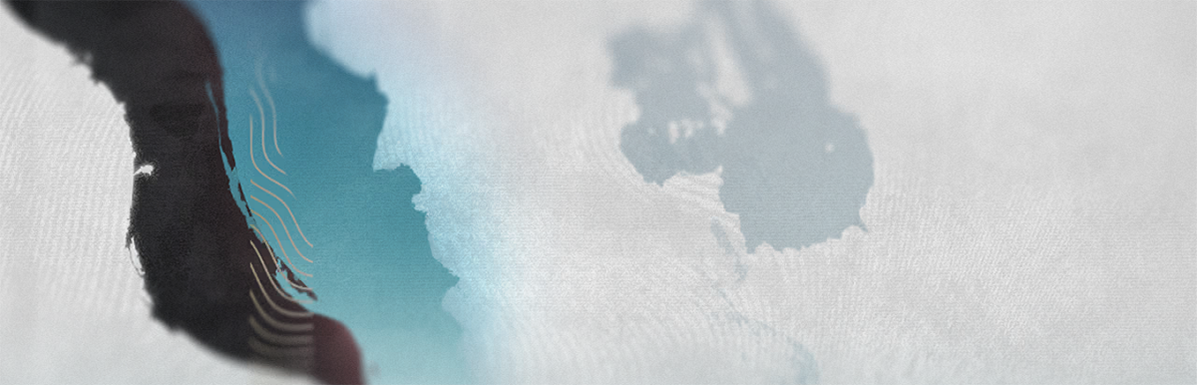
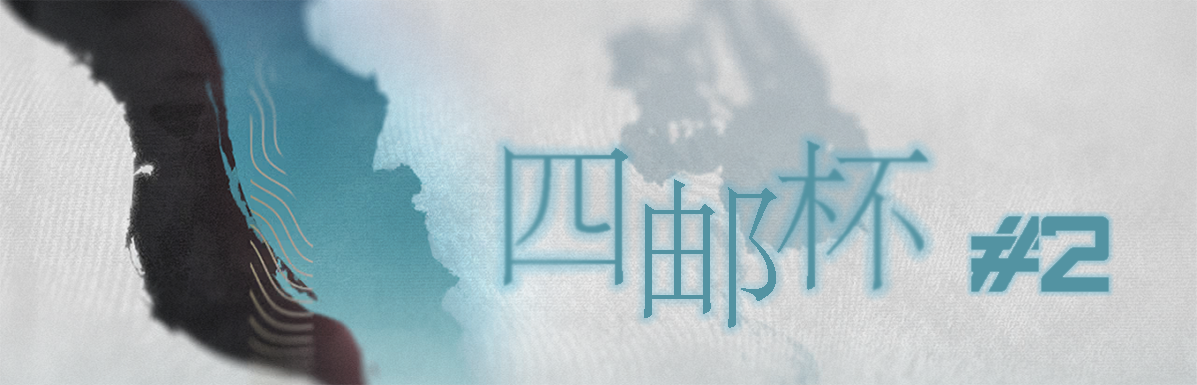
Add files via upload

Changed region(s): [[0.4018, 0.3429, 0.9273, 0.8727]]

diff --git a/index-4ubcnt.js b/index-4ubcnt.js
@@ -3465,7 +3465,7 @@ const dl = Ee(rl, [["render", hl]])
     data() {
         return {
             jiejuval: [0, 0, 0, 0, 0, 0, 0, 0, 0, 0],
-            jiejufen: [150, 150, 30, 120, 50, 300, 100, 150, 100, 100]
+            jiejufen: [80, 150, 200, 250, 50, 100, 40, 30, 30, 1000]
         }
     },
     computed: {
@@ -3486,7 +3486,7 @@ function jl(e, t, n, s, i, o) {
     Ce("div", gl, [c("div", null, " 结局得分：" + T(o.jiejuscore), 1), c("form", null, [c("div", null, [k(c("input", {
         "onUpdate:modelValue": t[0] || (t[0] = r => i.jiejuval[0] = r),
         type: "checkbox"
-    }, null, 512), [[oe, i.jiejuval[0]]]), _("一结局 (100) ")]), c("div", null, [k(c("input", {
+    }, null, 512), [[oe, i.jiejuval[0]]]), _("一结局 (80) ")]), c("div", null, [k(c("input", {
         "onUpdate:modelValue": t[1] || (t[1] = r => i.jiejuval[1] = r),
         type: "checkbox"
     }, null, 512), [[oe, i.jiejuval[1]]]), _("二结局(150) ")]), c("div", null, [k(c("input", {
@@ -3498,22 +3498,22 @@ function jl(e, t, n, s, i, o) {
     }, null, 512), [[oe, i.jiejuval[3]]]), _("二三结局(250) ")]), c("div", null, [k(c("input", {
         "onUpdate:modelValue": t[4] || (t[4] = r => i.jiejuval[4] = r),
         type: "checkbox"
-    }, null, 512), [[oe, i.jiejuval[4]]]), _("一个混乱BOSS(50) ")]), c("div", null, [k(c("input", {
+    }, null, 512), [[oe, i.jiejuval[4]]]), _("1个混乱BOSS(50) ")]), c("div", null, [k(c("input", {
         "onUpdate:modelValue": t[5] || (t[5] = r => i.jiejuval[5] = r),
         type: "checkbox"
-    }, null, 512), [[oe, i.jiejuval[5]]]), _("两个混乱BOSS(100) ")]), c("div", null, [k(c("input", {
+    }, null, 512), [[oe, i.jiejuval[5]]]), _("2个混乱BOSS(100) ")]), c("div", null, [k(c("input", {
         "onUpdate:modelValue": t[6] || (t[6] = r => i.jiejuval[6] = r),
         type: "checkbox"
-    }, null, 512), [[oe, i.jiejuval[6]]]), _("一三混一(250) ")]), c("div", null, [k(c("input", {
+    }, null, 512), [[oe, i.jiejuval[6]]]), _("三层离歌的庭院(40) ")]), c("div", null, [k(c("input", {
         "onUpdate:modelValue": t[7] || (t[7] = r => i.jiejuval[7] = r),
         type: "checkbox"
-    }, null, 512), [[oe, i.jiejuval[7]]]), _("一三混二(150) ")]), c("div", null, [k(c("input", {
+    }, null, 512), [[oe, i.jiejuval[7]]]), _("三层赴敌者(30) ")]), c("div", null, [k(c("input", {
         "onUpdate:modelValue": t[8] || (t[8] = r => i.jiejuval[8] = r),
         type: "checkbox"
-    }, null, 512), [[oe, i.jiejuval[8]]]), _("24连打(100) ")]), c("div", null, [k(c("input", {
+    }, null, 512), [[oe, i.jiejuval[8]]]), _("三层王冠之下(30) ")]), c("div", null, [k(c("input", {
         "onUpdate:modelValue": t[9] || (t[9] = r => i.jiejuval[9] = r),
         type: "checkbox"
-    }, null, 512), [[oe, i.jiejuval[9]]]), _("14连打且为深寒造像(100) ")])])])
+    }, null, 512), [[oe, i.jiejuval[9]]]), _("拥挤卫士(1000) ")])])])
 }
 const ml = Ee(pl, [["render", jl]])
   , bl = {
@@ -3568,7 +3568,7 @@ const ml = Ee(pl, [["render", jl]])
 };
 function Cl(e, t, n, s, i, o) {
     return we(),
-    Ce("div", yl, [c("div", null, " 隐藏(不计算豪华车队与正义使者)得分：" + T(o.hidescore), 1), xl, c("div", null, [_(" 狗(20)"), c("button", {
+    Ce("div", yl, [c("div", null, " 动物得分(每个20)：" + T(o.hidescore), 1), xl, c("div", null, [_(" 狗(20)"), c("button", {
         class: "changecounthide",
         onClick: t[0] || (t[0] = (...r) => o.dogcountjian && o.dogcountjian(...r))
     }, "-"), c("span", _l, T(i.dogcount), 1), c("button", {
@@ -3590,7 +3590,7 @@ function Cl(e, t, n, s, i, o) {
         "onUpdate:modelValue": t[5] || (t[5] = r => i.duckcount = r),
         type: "text",
         maxlength: "2"
-    }, null, 512), [[H, i.duckcount]]), _(T(i.duckcount * 20), 1)]), c("div", null, [_(" 熊(20)"), c("button", {
+    }, null, 512), [[H, i.duckcount]]), _(T(i.duckcount * 20), 1)]), c("div", null, [_(" 熊+鼠(20)"), c("button", {
         class: "changecounthide",
         onClick: t[6] || (t[6] = (...r) => o.bearcountjian && o.bearcountjian(...r))
     }, "-"), c("span", wl, T(i.bearcount), 1), c("button", {
@@ -3607,7 +3607,7 @@ const El = Ee(bl, [["render", Cl]]);
 const zl = {
     data() {
         return {
-            jinjisco: [20, 30, 20, 30, 20, 90, 110, 50, 50, 70, 35, 55, 90],
+            jinjisco: [20, 25, 25, 40, 40, 30, 50, 30, 40, 60, 60, 80, 70],
             jinjifra: ["", "", "", "", "", "", "", "", "", "", "", "", ""],
             jinjicount: 0
         }
@@ -3705,7 +3705,7 @@ const zl = {
   , Ol = {
     class: "part2"
 }
-  , Tl = c("div", null, " 携带路网时如果不能无漏则按原本分数计算 ", -1)
+  , Tl = c("div", null, " 只有无漏紧急才加分，拱门跳过的不加分 ", -1)
   , kl = {
     class: "jinjidefen"
 }
@@ -3786,7 +3786,7 @@ const zl = {
 };
 function tu(e, t, n, s, i, o) {
     return we(),
-    Ce("div", Ol, [c("div", null, " 紧急作战得分:" + T(o.jinjiscore), 1), Tl, c("div", null, [_(" 紧急冰海疑影(20)"), c("span", kl, [c("button", {
+    Ce("div", Ol, [c("div", null, " 作战得分:" + T(o.jinjiscore), 1), Tl, c("div", null, [_(" 紧急有序清场(20)"), c("span", kl, [c("button", {
         class: "changecount",
         onClick: t[0] || (t[0] = (...r) => o.binghaiyiyingjian && o.binghaiyiyingjian(...r))
     }, "-"), c("span", Pl, T(i.jinjifra[0]), 1), c("button", {
@@ -3797,7 +3797,7 @@ function tu(e, t, n, s, i, o) {
         "onUpdate:modelValue": t[2] || (t[2] = r => i.jinjifra[0] = r),
         type: "text",
         maxlength: "2"
-    }, null, 512), [[H, i.jinjifra[0]]]), _(T(i.jinjifra[0] * 20), 1)])]), c("div", null, [_(" 紧急冰海疑影路网无漏(30)"), c("span", Il, [c("button", {
+    }, null, 512), [[H, i.jinjifra[0]]]), _(T(i.jinjifra[0] * 20), 1)])]), c("div", null, [_(" 紧急大棋一盘(25)"), c("span", Il, [c("button", {
         class: "changecount",
         onClick: t[3] || (t[3] = (...r) => o.luwangbinghaiyiyingjian && o.luwangbinghaiyiyingjian(...r))
     }, "-"), c("span", Ul, T(i.jinjifra[1]), 1), c("button", {
@@ -3808,7 +3808,7 @@ function tu(e, t, n, s, i, o) {
         "onUpdate:modelValue": t[5] || (t[5] = r => i.jinjifra[1] = r),
         type: "text",
         maxlength: "2"
-    }, null, 512), [[H, i.jinjifra[1]]]), _(T(i.jinjifra[1] * 30), 1)])]), c("div", null, [_(" 紧急公司纠葛(20)"), c("span", Ml, [c("button", {
+    }, null, 512), [[H, i.jinjifra[1]]]), _(T(i.jinjifra[1] * 30), 1)])]), c("div", null, [_(" 紧急溃乱魔典(25)"), c("span", Ml, [c("button", {
         class: "changecount",
         onClick: t[6] || (t[6] = (...r) => o.gongsijiugejian && o.gongsijiugejian(...r))
     }, "-"), c("span", Al, T(i.jinjifra[2]), 1), c("button", {
@@ -3819,7 +3819,7 @@ function tu(e, t, n, s, i, o) {
         "onUpdate:modelValue": t[8] || (t[8] = r => i.jinjifra[2] = r),
         type: "text",
         maxlength: "2"
-    }, null, 512), [[H, i.jinjifra[2]]]), _(T(i.jinjifra[2] * 20), 1)])]), c("div", null, [_(" 紧急公司纠葛路网无漏(30)"), c("span", Fl, [c("button", {
+    }, null, 512), [[H, i.jinjifra[2]]]), _(T(i.jinjifra[2] * 20), 1)])]), c("div", null, [_(" 紧急年代断层+全收刺(40)"), c("span", Fl, [c("button", {
         class: "changecount",
         onClick: t[9] || (t[9] = (...r) => o.luwanggongsijiugejian && o.luwanggongsijiugejian(...r))
     }, "-"), c("span", Sl, T(i.jinjifra[3]), 1), c("button", {
@@ -3830,7 +3830,7 @@ function tu(e, t, n, s, i, o) {
         "onUpdate:modelValue": t[11] || (t[11] = r => i.jinjifra[3] = r),
         type: "text",
         maxlength: "2"
-    }, null, 512), [[H, i.jinjifra[3]]]), _(T(i.jinjifra[3] * 30), 1)])]), c("div", null, [_(" 紧急坍缩体的午后(20)"), c("span", Vl, [c("button", {
+    }, null, 512), [[H, i.jinjifra[3]]]), _(T(i.jinjifra[3] * 30), 1)])]), c("div", null, [_(" 紧急假想对冲(40)"), c("span", Vl, [c("button", {
         class: "changecount",
         onClick: t[12] || (t[12] = (...r) => o.tansuotidewuhoujian && o.tansuotidewuhoujian(...r))
     }, "-"), c("span", Rl, T(i.jinjifra[4]), 1), c("button", {
@@ -3841,7 +3841,7 @@ function tu(e, t, n, s, i, o) {
         "onUpdate:modelValue": t[14] || (t[14] = r => i.jinjifra[4] = r),
         type: "text",
         maxlength: "2"
-    }, null, 512), [[H, i.jinjifra[4]]]), _(T(i.jinjifra[4] * 20), 1)])]), c("div", null, [_(" 紧急人造物(90)"), c("span", Nl, [c("button", {
+    }, null, 512), [[H, i.jinjifra[4]]]), _(T(i.jinjifra[4] * 20), 1)])]), c("div", null, [_(" 紧急朽败考察(30)"), c("span", Nl, [c("button", {
         class: "changecount",
         onClick: t[15] || (t[15] = (...r) => o.renzaowujian && o.renzaowujian(...r))
     }, "-"), c("span", Hl, T(i.jinjifra[5]), 1), c("button", {
@@ -3852,7 +3852,7 @@ function tu(e, t, n, s, i, o) {
         "onUpdate:modelValue": t[17] || (t[17] = r => i.jinjifra[5] = r),
         type: "text",
         maxlength: "2"
-    }, null, 512), [[H, i.jinjifra[5]]]), _(T(i.jinjifra[5] * 90), 1)])]), c("div", null, [_(" 紧急人造物路网无漏(110)"), c("span", Bl, [c("button", {
+    }, null, 512), [[H, i.jinjifra[5]]]), _(T(i.jinjifra[5] * 90), 1)])]), c("div", null, [_(" 紧急猩红甬道(50)"), c("span", Bl, [c("button", {
         class: "changecount",
         onClick: t[18] || (t[18] = (...r) => o.luwangrenzaowujian && o.luwangrenzaowujian(...r))
     }, "-"), c("span", Kl, T(i.jinjifra[6]), 1), c("button", {
@@ -3863,7 +3863,7 @@ function tu(e, t, n, s, i, o) {
         "onUpdate:modelValue": t[20] || (t[20] = r => i.jinjifra[6] = r),
         type: "text",
         maxlength: "2"
-    }, null, 512), [[H, i.jinjifra[6]]]), _(T(i.jinjifra[6] * 110), 1)])]), c("div", null, [_(" 紧急本能污染(50)"), c("span", Ll, [c("button", {
+    }, null, 512), [[H, i.jinjifra[6]]]), _(T(i.jinjifra[6] * 110), 1)])]), c("div", null, [_(" 紧急通道封锁(30)"), c("span", Ll, [c("button", {
         class: "changecount",
         onClick: t[21] || (t[21] = (...r) => o.bennengwuranjian && o.bennengwuranjian(...r))
     }, "-"), c("span", Dl, T(i.jinjifra[7]), 1), c("button", {
@@ -3874,7 +3874,7 @@ function tu(e, t, n, s, i, o) {
         "onUpdate:modelValue": t[23] || (t[23] = r => i.jinjifra[7] = r),
         type: "text",
         maxlength: "2"
-    }, null, 512), [[H, i.jinjifra[7]]]), _(T(i.jinjifra[7] * 50), 1)])]), c("div", null, [_(" 紧急亡者行军(50)"), c("span", Wl, [c("button", {
+    }, null, 512), [[H, i.jinjifra[7]]]), _(T(i.jinjifra[7] * 50), 1)])]), c("div", null, [_(" 紧急寄人城池下(40)"), c("span", Wl, [c("button", {
         class: "changecount",
         onClick: t[24] || (t[24] = (...r) => o.wangzhexingjunjian && o.wangzhexingjunjian(...r))
     }, "-"), c("span", ql, T(i.jinjifra[8]), 1), c("button", {
@@ -3885,7 +3885,7 @@ function tu(e, t, n, s, i, o) {
         "onUpdate:modelValue": t[26] || (t[26] = r => i.jinjifra[8] = r),
         type: "text",
         maxlength: "2"
-    }, null, 512), [[H, i.jinjifra[8]]]), _(T(i.jinjifra[8] * 50), 1)])]), c("div", null, [_(" 紧急亡者行军路网无漏(70)"), c("span", Jl, [c("button", {
+    }, null, 512), [[H, i.jinjifra[8]]]), _(T(i.jinjifra[8] * 50), 1)])]), c("div", null, [_(" 紧急计划耕种(60)"), c("span", Jl, [c("button", {
         class: "changecount",
         onClick: t[27] || (t[27] = (...r) => o.luwangwangzhexingjunjian && o.luwangwangzhexingjunjian(...r))
     }, "-"), c("span", Yl, T(i.jinjifra[9]), 1), c("button", {
@@ -3896,7 +3896,7 @@ function tu(e, t, n, s, i, o) {
         "onUpdate:modelValue": t[29] || (t[29] = r => i.jinjifra[9] = r),
         type: "text",
         maxlength: "2"
-    }, null, 512), [[H, i.jinjifra[9]]]), _(T(i.jinjifra[9] * 70), 1)])]), c("div", null, [_(" 紧急乐理之灾(35)"), c("span", Xl, [c("button", {
+    }, null, 512), [[H, i.jinjifra[9]]]), _(T(i.jinjifra[9] * 70), 1)])]), c("div", null, [_(" 紧急谋求共识(60)"), c("span", Xl, [c("button", {
         class: "changecount",
         onClick: t[30] || (t[30] = (...r) => o.yuelizhizaijian && o.yuelizhizaijian(...r))
     }, "-"), c("span", Zl, T(i.jinjifra[10]), 1), c("button", {
@@ -3907,7 +3907,7 @@ function tu(e, t, n, s, i, o) {
         "onUpdate:modelValue": t[32] || (t[32] = r => i.jinjifra[10] = r),
         type: "text",
         maxlength: "2"
-    }, null, 512), [[H, i.jinjifra[10]]]), _(T(i.jinjifra[10] * 35), 1)])]), c("div", null, [_(" 紧急乐理之灾路网无漏(55)"), c("span", Ql, [c("button", {
+    }, null, 512), [[H, i.jinjifra[10]]]), _(T(i.jinjifra[10] * 35), 1)])]), c("div", null, [_(" 紧急神圣的渴求(80)"), c("span", Ql, [c("button", {
         class: "changecount",
         onClick: t[33] || (t[33] = (...r) => o.luwangyuelizhizaijian && o.luwangyuelizhizaijian(...r))
     }, "-"), c("span", Gl, T(i.jinjifra[11]), 1), c("button", {
@@ -3918,7 +3918,7 @@ function tu(e, t, n, s, i, o) {
         "onUpdate:modelValue": t[35] || (t[35] = r => i.jinjifra[11] = r),
         type: "text",
         maxlength: "2"
-    }, null, 512), [[H, i.jinjifra[11]]]), _(T(i.jinjifra[11] * 55), 1)])]), c("div", null, [_(" 紧急生灵的终点(90)"), c("span", $l, [c("button", {
+    }, null, 512), [[H, i.jinjifra[11]]]), _(T(i.jinjifra[11] * 55), 1)])]), c("div", null, [_(" 时光凯旋无漏(70)"), c("span", $l, [c("button", {
         class: "changecount",
         onClick: t[36] || (t[36] = (...r) => o.shenglingdezhongdianjian && o.shenglingdezhongdianjian(...r))
     }, "-"), c("span", eu, T(i.jinjifra[12]), 1), c("button", {
@@ -3936,11 +3936,11 @@ const nu = Ee(zl, [["render", tu]])
     data() {
         return {
             speval: [0, 0, 0, 0],
-            spefen: [50, 50, 50, 40],
+            spefen: [150, 100, 80, 100],
             zhengyishizheval: 0,
-            zhengyishizhefen: [0, 70, 100, 130, 160, 200],
+            zhengyishizhefen: [0, 0, -40, -70, -120, 50],
             yingxiongcount: -1,
-            yingxiongwumingfen: [0, 30, 45, 60, 75, 90, 105, 150],
+            yingxiongwumingfen: [0, 30, 60, 120],
             specount: 0
         }
     },
@@ -3959,59 +3959,59 @@ const nu = Ee(zl, [["render", tu]])
   , su = {
     class: "part3"
 }
-  , ou = c("div", null, " 英雄无名仅通关30分 ", -1)
-  , ru = c("div", null, " 每杀一个15分 ", -1)
-  , lu = c("div", null, " 无漏150分 ", -1);
+  , ou = c("div", null, " 特殊关卡每个30分 ", -1)
+  , ru = c("div", null, " 全遇到+120分 ", -1)
+  , lu = c("div", null, " 临时招募ban位但不携带也可加分 ", -1);
 function uu(e, t, n, s, i, o) {
     return we(),
-    Ce("div", su, [_(" 特殊关卡得分：" + T(o.spescore) + " ", 1), c("div", null, [c("form", null, [c("div", null, [c("div", null, [k(c("input", {
+    Ce("div", su, [_(" 特殊关卡和ban人得分：" + T(o.spescore) + " ", 1), c("div", null, [c("form", null, [c("div", null, [c("div", null, [k(c("input", {
         "onUpdate:modelValue": t[0] || (t[0] = r => i.speval[0] = r),
         type: "checkbox"
-    }, null, 512), [[oe, i.speval[0]]]), _("3层BOSS大地醒转(50) ")]), c("div", null, [k(c("input", {
+    }, null, 512), [[oe, i.speval[0]]]), _("不招募维什戴尔(150) ")]), c("div", null, [k(c("input", {
         "onUpdate:modelValue": t[1] || (t[1] = r => i.speval[1] = r),
         type: "checkbox"
-    }, null, 512), [[oe, i.speval[1]]]), _("3层BOSS呼吸(50) ")]), c("div", null, [k(c("input", {
+    }, null, 512), [[oe, i.speval[1]]]), _("不招募逻各斯和塑心(120) ")]), c("div", null, [k(c("input", {
         "onUpdate:modelValue": t[2] || (t[2] = r => i.speval[2] = r),
         type: "checkbox"
-    }, null, 512), [[oe, i.speval[2]]]), _("3层BOSS夺树者(50) ")]), c("div", null, [k(c("input", {
+    }, null, 512), [[oe, i.speval[2]]]), _("不招募阿斯卡纶(80) ")]), c("div", null, [k(c("input", {
         "onUpdate:modelValue": t[3] || (t[3] = r => i.speval[3] = r),
         type: "checkbox"
-    }, null, 512), [[oe, i.speval[3]]]), _("豪华车队击杀熊(40) ")]), c("div", null, [k(c("input", {
+    }, null, 512), [[oe, i.speval[3]]]), _("全程没有树洞(100) ")]), c("div", null, [k(c("input", {
         "onUpdate:modelValue": t[4] || (t[4] = r => i.zhengyishizheval = r),
         type: "radio",
         name: "zhengyishizhe",
         value: "0"
-    }, null, 512), [[$e, i.zhengyishizheval]]), _("正义使者未通关(0) ")]), c("div", null, [k(c("input", {
+    }, null, 512), [[$e, i.zhengyishizheval]]), _("没有泰拉之王TAT(0) ")]), c("div", null, [k(c("input", {
         "onUpdate:modelValue": t[5] || (t[5] = r => i.zhengyishizheval = r),
         type: "radio",
         name: "zhengyishizhe",
         value: "1"
-    }, null, 512), [[$e, i.zhengyishizheval]]), _("正义使者仅通关(70) ")]), c("div", null, [k(c("input", {
+    }, null, 512), [[$e, i.zhengyishizheval]]), _("泰拉之王拿1(0) ")]), c("div", null, [k(c("input", {
         "onUpdate:modelValue": t[6] || (t[6] = r => i.zhengyishizheval = r),
         type: "radio",
         name: "zhengyishizhe",
         value: "2"
-    }, null, 512), [[$e, i.zhengyishizheval]]), _("正义使者杀1隐藏(100) ")]), c("div", null, [k(c("input", {
+    }, null, 512), [[$e, i.zhengyishizheval]]), _("泰拉之王拿2(-40) ")]), c("div", null, [k(c("input", {
         "onUpdate:modelValue": t[7] || (t[7] = r => i.zhengyishizheval = r),
         type: "radio",
         name: "zhengyishizhe",
         value: "3"
-    }, null, 512), [[$e, i.zhengyishizheval]]), _("正义使者杀2隐藏(130) ")]), c("div", null, [k(c("input", {
+    }, null, 512), [[$e, i.zhengyishizheval]]), _("泰拉之王拿3(-70) ")]), c("div", null, [k(c("input", {
         "onUpdate:modelValue": t[8] || (t[8] = r => i.zhengyishizheval = r),
         type: "radio",
         name: "zhengyishizhe",
         value: "4"
-    }, null, 512), [[$e, i.zhengyishizheval]]), _("正义使者杀3隐藏(160) ")]), c("div", null, [k(c("input", {
+    }, null, 512), [[$e, i.zhengyishizheval]]), _("泰拉之王拿4(-120) ")]), c("div", null, [k(c("input", {
         "onUpdate:modelValue": t[9] || (t[9] = r => i.zhengyishizheval = r),
         type: "radio",
         name: "zhengyishizhe",
         value: "5"
-    }, null, 512), [[$e, i.zhengyishizheval]]), _("正义使者全部无漏(200) ")]), c("div", null, [_(" 英雄无名击杀数"), k(c("input", {
+    }, null, 512), [[$e, i.zhengyishizheval]]), _("全程没有国王套maybe分(50) ")]), c("div", null, [_(" 特殊关卡数"), k(c("input", {
         type: "range",
         "onUpdate:modelValue": t[10] || (t[10] = r => i.yingxiongcount = r),
         step: "1",
         min: "-1",
-        max: "6"
+        max: "2"
     }, null, 512), [[H, i.yingxiongcount]]), _(T(i.yingxiongcount) + "(" + T(this.yingxiongwumingfen[this.yingxiongcount * 1 + 1]) + ") ", 1)]), ou, ru, lu])])])])
 }
 const cu = Ee(iu, [["render", uu]])
@@ -4025,7 +4025,7 @@ const cu = Ee(iu, [["render", uu]])
     },
     computed: {
         cangpinscore: function() {
-            return this.cangpinfen = this.xuanyanbancount * 5 + this.cangpincount * 10,
+            return this.cangpinfen = this.xuanyanbancount * 1 + this.cangpincount * 10,
             this.$emit("setcangpin", this.cangpinfen),
             this.cangpinfen
         }
@@ -4036,7 +4036,7 @@ const cu = Ee(iu, [["render", uu]])
 };
 function hu(e, t, n, s, i, o) {
     return we(),
-    Ce("div", au, [c("div", null, " 藏品宣言板得分：" + T(o.cangpinscore), 1), c("form", null, [c("div", null, [_(" 藏品(10)"), k(c("input", {
+    Ce("div", au, [c("div", null, " 藏品思绪得分：" + T(o.cangpinscore), 1), c("form", null, [c("div", null, [_(" 藏品(10)"), k(c("input", {
         type: "range",
         "onUpdate:modelValue": t[0] || (t[0] = r => i.cangpincount = r),
         step: "1",
@@ -4047,13 +4047,13 @@ function hu(e, t, n, s, i, o) {
         "onUpdate:modelValue": t[1] || (t[1] = r => i.cangpincount = r),
         type: "text",
         maxlength: "2"
-    }, null, 512), [[H, i.cangpincount]])]), c("div", null, [_(" 宣言板(5)"), k(c("input", {
+    }, null, 512), [[H, i.cangpincount]])]), c("div", null, [_(" 思绪(1)"), k(c("input", {
         type: "range",
         "onUpdate:modelValue": t[2] || (t[2] = r => i.xuanyanbancount = r),
         step: "1",
         min: "0",
         max: "99"
-    }, null, 512), [[H, i.xuanyanbancount]]), _(T(i.xuanyanbancount), 1)]), c("div", null, [_(" 宣言板数量："), k(c("input", {
+    }, null, 512), [[H, i.xuanyanbancount]]), _(T(i.xuanyanbancount), 1)]), c("div", null, [_(" 思绪数量："), k(c("input", {
         class: "shuru",
         "onUpdate:modelValue": t[3] || (t[3] = r => i.xuanyanbancount = r),
         type: "text",
@@ -4131,7 +4131,7 @@ const _u = Ee(bu, [["render", xu]])
     },
     computed: {
         kangyascore: function() {
-            return this.kangya ? this.kangyacount = 1.5 : this.kangyacount = 1,
+            return this.kangya ? this.kangyacount = 0.8 : this.kangyacount = 1,
             this.$emit("setkangya", this.kangyacount),
             this.kangyacount
         }
@@ -4145,7 +4145,7 @@ function Cu(e, t, n, s, i, o) {
     Ce("div", wu, [c("div", null, [k(c("input", {
         "onUpdate:modelValue": t[0] || (t[0] = r => i.kangya = r),
         type: "checkbox"
-    }, null, 512), [[oe, i.kangya]]), _("抗压位且完成34连打 " + T(o.kangyascore) + "倍分数加成 ", 1)])])
+    }, null, 512), [[oe, i.kangya]]), _("拥有死仇时代的恨意 " + T(o.kangyascore) + "倍分数 ", 1)])])
 }
 const Eu = Ee(vu, [["render", Cu]]);
 const zu = {
@@ -4254,7 +4254,7 @@ const zu = {
     ref: "guiling",
     src: "../public/归零.mp3"
 }
-  , Uu = Cr('<div><a href="https://www.bilibili.com/video/BV1Nm411Z72p/">仙术杯赛事前瞻与规则介绍</a>   <a href="https://www.bilibili.com/blackboard/activity-cXBrWYNabu.html">比赛专题页</a>   <a href="https://space.bilibili.com/71280097">作者：b站东海帝皇单推组长</a>   <span style="color:rgba(0, 0, 0, .5);">版本:1.06</span>   <span style="color:rgba(0, 0, 0, .5);">更新时间：2024.3.17</span></div>', 1);
+  , Uu = Cr('<div><a href="https://docs.qq.com/form/page/DZWRKT0pPV01NbHZ2/">四邮杯#2报名</a>   <a href="https://docs.qq.com/form/page/DZWNDc0djVHJMQlBq">比赛赞助通道</a>   <a href="https://space.bilibili.com/526886747">直播与往期比赛回放B站@落桜残影Sakura_L</a>   <span style="color:rgba(0, 0, 0, .5);">版本:4UB#2</span>   <span style="color:rgba(0, 0, 0, .5);">更新时间：2024.9.25</span></div>', 1);
 function Mu(e, t, n, s, i, o) {
     const r = Oe("linshi")
       , u = Oe("jieju")
